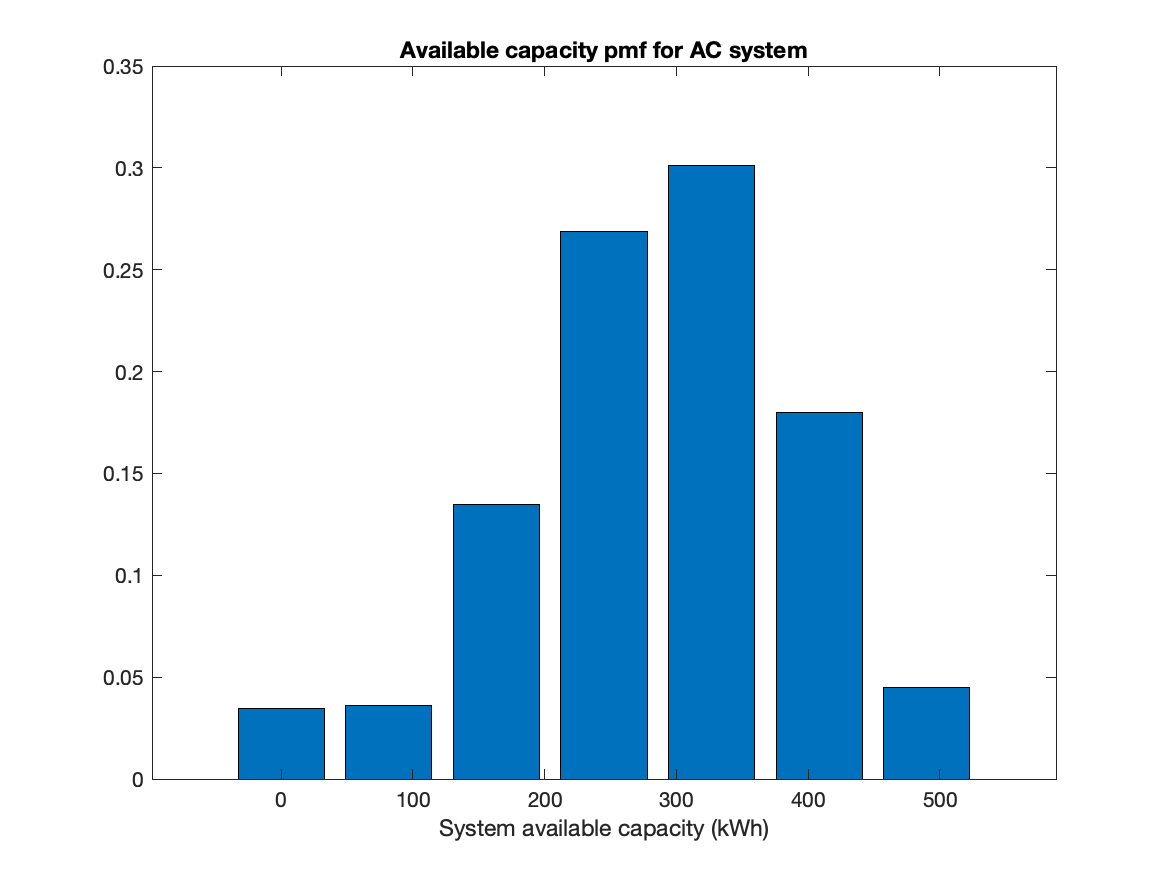
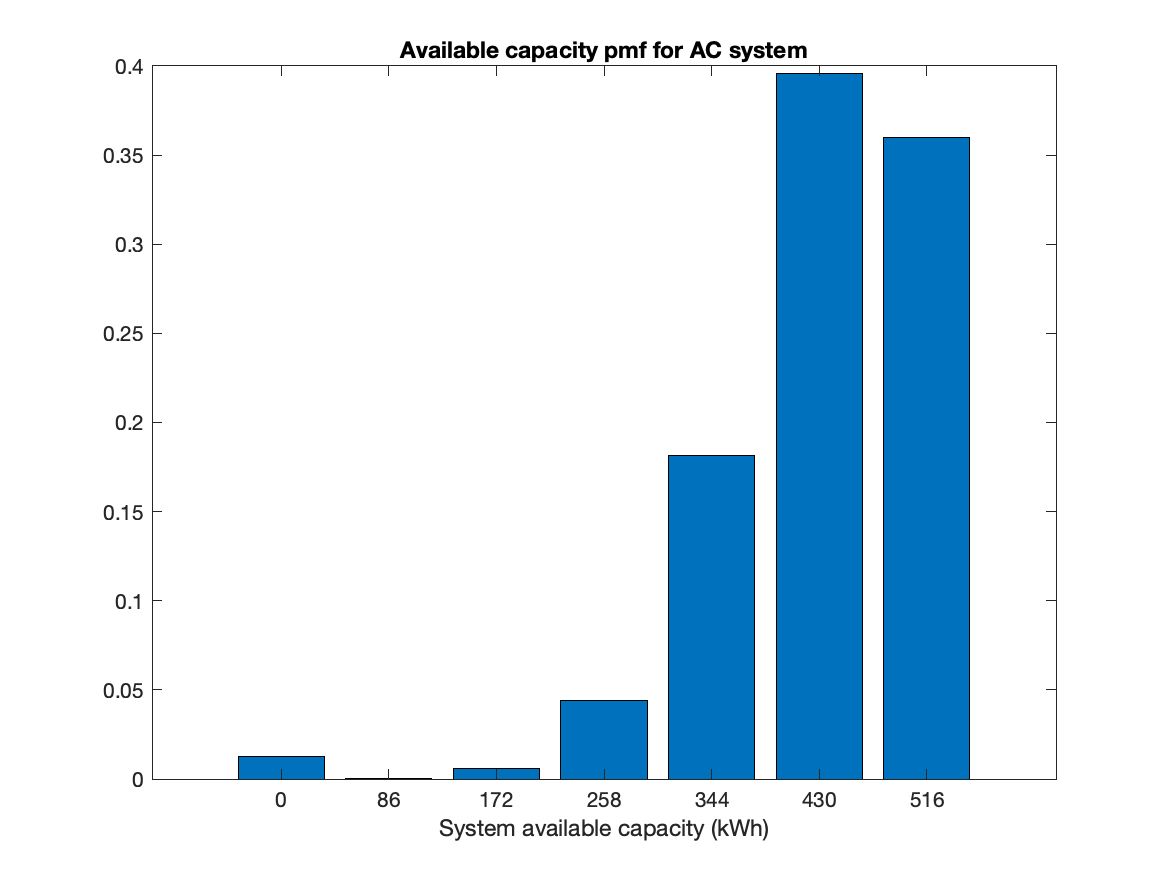
checked base failure rates, modified table

diff --git a/reliability_calcs.m b/reliability_calcs.m
@@ -5,11 +5,12 @@ clear
 % on MIL-HDBK-217Plus
 scale = 1e6;
 lambdaC = 0.001579/scale;
-lambdaDiode = 0.015662/scale;
-lambdaMosfet = 0.075132/scale;
+lambdaDiode_Schottky = 0.001965/scale;
+lambdaDiode_Zener = 0.003966/scale;
+lambdaMosfet = 0.01784/scale;
 lambdaL= 0.00000517/scale;
 lambdaXfmr = 0.075132/scale;
-lambdaIgbt = 0.034227/scale;
+lambdaIgbt = 0.015855/scale;
 lambdaR = 0.00264/scale;
 
 lifetime = 96000; % estimated lifetime of system, based on quarterly report
@@ -21,7 +22,7 @@ nMosfetDC = 8;
 nInductorDC = 1;
 nXfmrDC = 1;
 
-lambdaDC = nCapDC*lambdaC + nDiodeDC*lambdaDiode + nMosfetDC*lambdaMosfet + ...
+lambdaDC = nCapDC*lambdaC + nDiodeDC*lambdaDiode_Schottky + nMosfetDC*lambdaMosfet + ...
     nInductorDC*lambdaL + nXfmrDC*lambdaXfmr;
 Rconv = exp(-lambdaDC*lifetime); % reliability estimate for DC-DC onverter at time 'lifetime'
 
@@ -31,7 +32,7 @@ nIgbtAC = 6;
 nInductorAC = 6;
 nResistorAC = 6;
 
-lambdaAC = nCapAC*lambdaC + nDiodeAC*lambdaDiode + nIgbtAC*lambdaIgbt + ...
+lambdaAC = nCapAC*lambdaC + nDiodeAC*lambdaDiode_Schottky + nIgbtAC*lambdaIgbt + ...
     nInductorAC*lambdaL + nResistorAC*lambdaR;
 Rinv = exp(-lambdaAC*lifetime); % reliability estimate for DC-AC onverter at time 'lifetime'
 
@@ -40,7 +41,7 @@ nDiodePB = 1;
 nMosfetPB = 1;
 nResistorPB = 3;
 
-lambdaPB = nCapPB*lambdaC + nDiodePB*lambdaDiode + nMosfetPB*lambdaMosfet + ...
+lambdaPB = nCapPB*lambdaC + nDiodePB*lambdaDiode_Zener + nMosfetPB*lambdaMosfet + ...
     nResistorPB*lambdaR;
 Rpb = exp(-lambdaPB*balanceTime);
 
@@ -51,7 +52,7 @@ energyModule = 4300;
 % In the AC case, the loss of any one balancing circuit represents the loss of a
 % whole series string of modules.
 nBlockSer = 14;
-nModSer_AC = 19;
+nModSer_AC = 20;
 Xpb_AC = nModSer_AC .* [0 energyModule]; % [Xpb_AC, Ppb] represents the distribution for one passive balancing circuit
 Ppb = [1-Rpb Rpb];
 
@@ -156,18 +157,20 @@ Xconv_DC3S = nModSer_DC3S * Xconv;
 % Subsystem 5.4: Pack. 38 3S pods in parallel, plus one 2S pod
 nModPar_DC3S = floor(nModPar_DC/nModSer_DC3S);
 [Xpack_DC3S, Ppack_DC3S] = n_same_system_parallel(nModPar_DC3S, Xpod_DC3S, Ppod_DC3S);
+size(Xpack_DC3S)
 [Xpack_DC3S, Ppack_DC3S] = diff_systems_parallel(Xpack_DC3S, Ppack_DC3S, Xpod_DC2S, Ppod_DC2S);
-
+%pause
 % System 5: System. Pack in series with inverter
 [Xsys_DC3S, Psys_DC3S] = diff_systems_series(Xpack_DC3S, Ppack_DC3S, Xinv_DC, Pinv);
 %% Figures
 figure
 bar(Xsys_AC/1000, Psys_AC)
-%xticklabels(X8)
+xticks(Xsys_AC/1000)
+% xticklabels(Xsys_AC/1000)
 xlabel('System available capacity (kWh)')
 title('Available capacity pmf for AC system')
 saveas(gcf, 'AChisto_PB.png')
-
+%pause
 figure
 bar(Xsys_DC/1000,Psys_DC)
 %xticklabels(X4/100)
@@ -194,6 +197,10 @@ title('Available capacity pmf for DC system with passive balancing and 3 modules
 saveas(gcf, 'DChisto_PB_3modules.png')
 
 w = 400000;
+Whmax_AC = energyModule * nModSer_AC * nModPar_AC
+Whmax_DC = energyModule * nModPar_DC
+Whmax_DC2S = energyModule * nModSer_DC2S * nModPar_DC2S
+Whmax_DC3S = energyModule * (nModSer_DC3S*nModPar_DC3S + nModSer_DC2S)
 
 acceptabilityAC = compute_acceptability(Xsys_AC, Psys_AC, w);
 acceptabilityDC_PB = compute_acceptability(Xsys_DC, Psys_DC, w);
@@ -210,7 +217,14 @@ expectedOutputDC_3S = sum(Xsys_DC3S.*Psys_DC3S);
 acceptability = [acceptabilityAC; acceptabilityDC_PB; acceptabilityDC_AB; acceptabilityDC2S; acceptabilityDC3S];
 expectedOutput = [expectedOutputAC; expectedOutputDC_PB; expectedOutputDC_AB; expectedOutputDC_2S; expectedOutputDC_3S];
 
-T1 = table(expectedOutput/1000, acceptability);
-T1.Properties.RowNames = ["AC system, PB", "DC system, PB", "DC system, AB", "DC system, 2S", "DC system, 3S"];
-T1.Properties.VariableNames = ["Expected output (kWh)", "Acceptability"];
+Whmax = [Whmax_AC; Whmax_DC; Whmax_DC; Whmax_DC2S; Whmax_DC3S];
+expectedOutput_pct = round(expectedOutput ./ Whmax .* 100,1);
+
+T1 = table(expectedOutput/1000, expectedOutput_pct, acceptability);
+T1.Properties.RowNames = [sprintf("AC system, PB, %0.0f kWh", Whmax_AC/1000), ...
+    sprintf("DC system, PB, %0.1f kWh", Whmax_DC/1000), ...
+    sprintf("DC system, AB, %0.1f kWh", Whmax_DC/1000), ...
+    sprintf("DC system, 2S, %0.1f kWh", Whmax_DC2S/1000), ...
+    sprintf("DC system, 3S, %0.1f kWh", Whmax_DC3S/1000)];
+T1.Properties.VariableNames = ["Expected output (kWh)", "Expected output (% of max)" "Acceptability (%)"];
 disp(T1)

diff --git a/compute_acceptability.m b/compute_acceptability.m
@@ -1,4 +1,5 @@
 function A = compute_acceptability(X, P, w)
 
-P(X<w) = 0;
-A = sum(P)*100;
+%P(X<w) = 0;
+%A = sum(P)*100;
+A = sum(P(find(X>=w)))*100;
